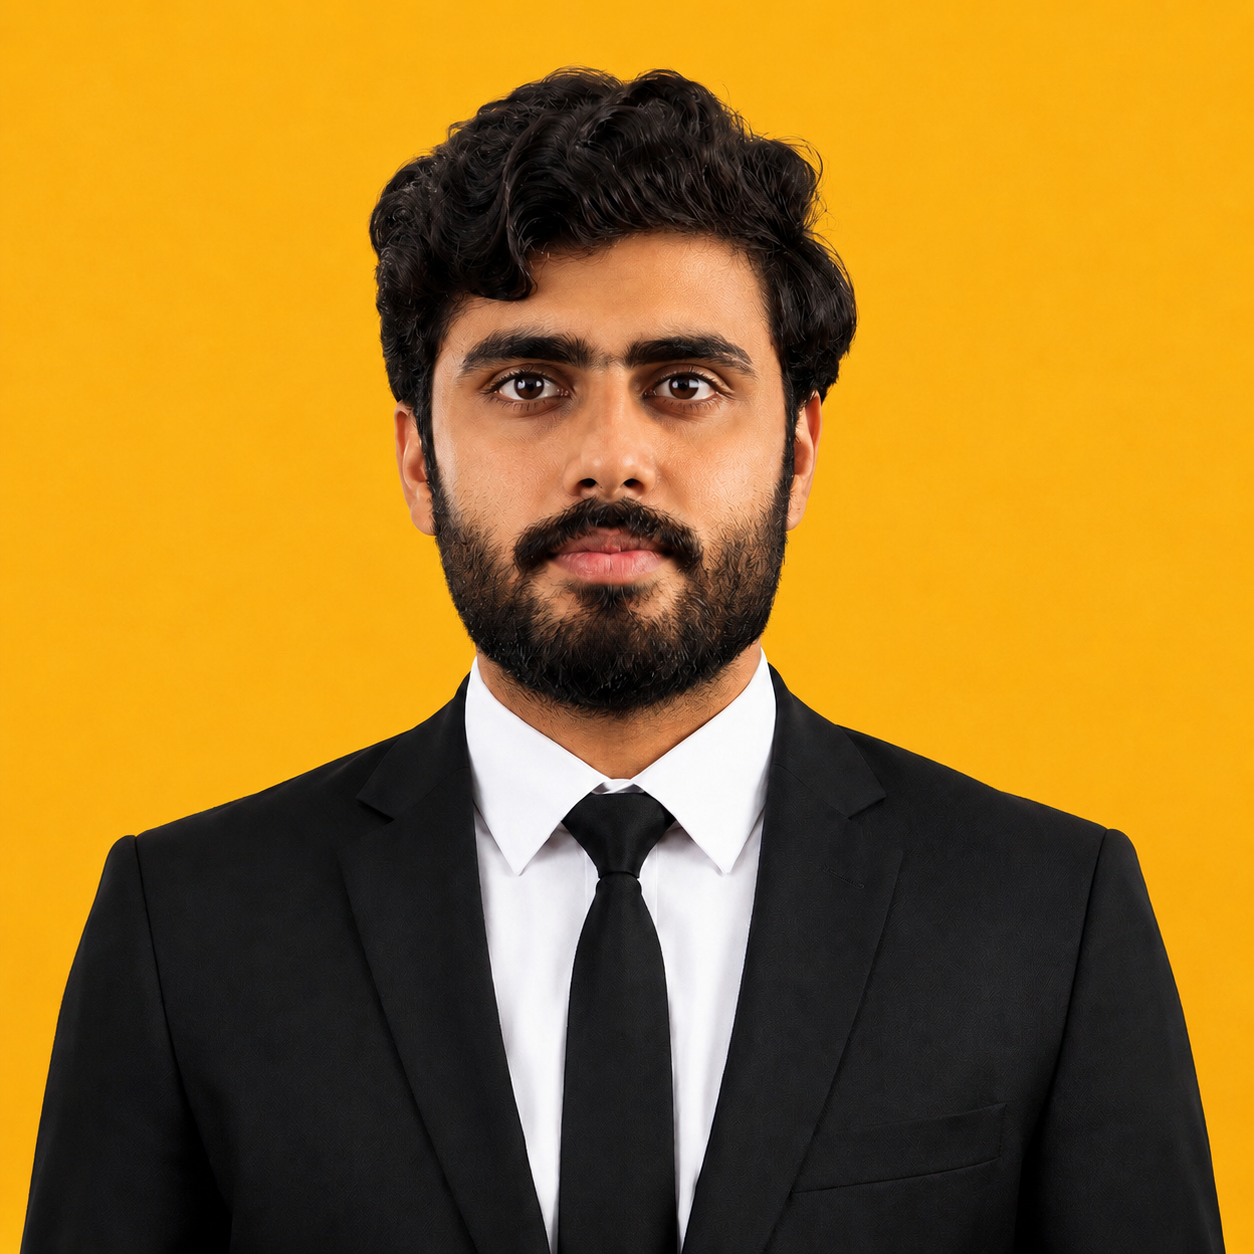
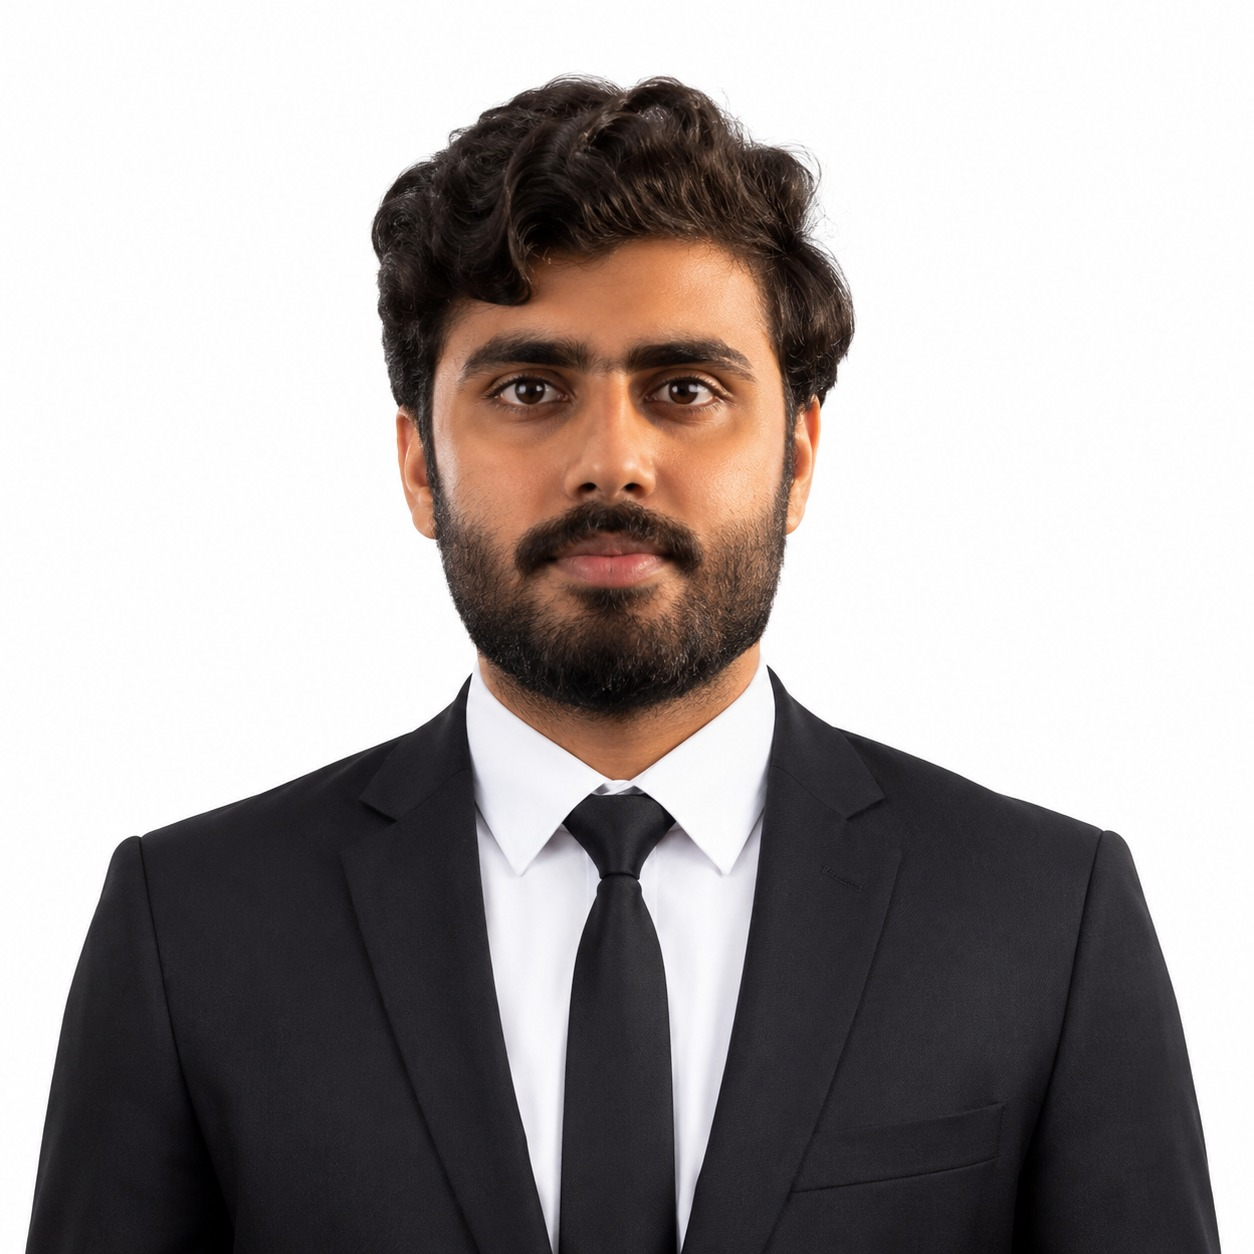
feat(content): update hero roles, portfolio data, bio, and component layout spacing

diff --git a/components/Testimonials.tsx b/components/Testimonials.tsx
@@ -18,95 +18,91 @@ export default function Testimonials() {
   const current = testimonials[currentIndex];
 
   return (
-    <section id="testimonials" className="relative py-24 px-6">
+    <section id="testimonials" className="relative py-12 sm:py-16 px-6">
       <div className="mx-auto max-w-4xl">
         {/* Section Header */}
         <motion.div
-          className="mb-16 text-center"
-          initial={{ opacity: 0, y: 30 }}
+          className="mb-8 text-center"
+          initial={{ opacity: 0, y: 20 }}
           whileInView={{ opacity: 1, y: 0 }}
-          viewport={{ once: true, margin: "-100px" }}
-          transition={{ duration: 0.6 }}
+          viewport={{ once: true, margin: "-80px" }}
+          transition={{ duration: 0.5 }}
         >
-          <span className="pill pill-accent mb-4 inline-block">Testimonials</span>
+          <span className="pill pill-accent mb-3 inline-block">Testimonials</span>
           <h2 className="text-3xl font-bold sm:text-4xl">
-            What People{" "}
-            <span className="gradient-text">Say</span>
+            What People <span className="gradient-text">Say</span>
           </h2>
         </motion.div>
 
         {/* Testimonial Carousel */}
         <motion.div
-          className="glass-card relative overflow-hidden rounded-3xl p-8 sm:p-12"
-          initial={{ opacity: 0, y: 30 }}
+          className="glass-card relative overflow-hidden rounded-2xl p-6 sm:p-8"
+          initial={{ opacity: 0, y: 20 }}
           whileInView={{ opacity: 1, y: 0 }}
-          viewport={{ once: true, margin: "-100px" }}
-          transition={{ duration: 0.6, delay: 0.1 }}
+          viewport={{ once: true, margin: "-80px" }}
+          transition={{ duration: 0.5, delay: 0.1 }}
         >
           {/* Quote Icon */}
-          <div className="absolute top-6 left-6 flex h-12 w-12 items-center justify-center rounded-xl bg-[var(--color-accent-glow)]">
-            <Quote className="h-6 w-6 text-[var(--color-accent)]" />
+          <div className="absolute top-5 left-5 flex h-10 w-10 items-center justify-center rounded-xl bg-[var(--color-accent-glow)]">
+            <Quote className="h-5 w-5 text-[var(--color-accent)]" />
           </div>
 
           {/* Quote Content */}
-          <div className="min-h-[280px] sm:min-h-[220px] pt-8">
+          <div className="min-h-[160px] sm:min-h-[140px] pt-6 sm:pt-4 sm:pl-10">
             <AnimatePresence mode="wait">
               <motion.div
                 key={current.id}
                 initial={{ opacity: 0, x: 20 }}
                 animate={{ opacity: 1, x: 0 }}
                 exit={{ opacity: 0, x: -20 }}
-                transition={{ duration: 0.4 }}
+                transition={{ duration: 0.3 }}
               >
-                <blockquote className="mb-8 text-lg leading-relaxed text-[var(--color-text-secondary)] italic sm:text-xl">
+                <blockquote className="mb-5 text-base leading-relaxed text-[var(--color-text-secondary)] italic sm:text-lg">
                   &ldquo;{current.quote}&rdquo;
                 </blockquote>
 
-                <div className="flex items-center gap-4">
-                  {/* Avatar placeholder */}
-                  <div className="flex h-12 w-12 items-center justify-center rounded-full bg-gradient-to-br from-[var(--color-accent)] to-[var(--color-accent-secondary)] text-lg font-bold text-white">
-                    {current.author
-                      .split(" ")
-                      .map((w) => w[0])
-                      .join("")
-                      .slice(0, 2)}
+                <div className="flex flex-wrap items-center justify-between gap-3 pt-3 border-t border-[var(--color-border)]">
+                  <div className="flex items-center gap-3">
+                    {/* Avatar */}
+                    <div className="flex h-10 w-10 items-center justify-center rounded-full bg-gradient-to-br from-[var(--color-accent)] to-[var(--color-accent-secondary)] text-sm font-bold text-white">
+                      {current.author
+                        .split(" ")
+                        .map((w) => w[0])
+                        .join("")
+                        .slice(0, 2)}
+                    </div>
+
+                    <div>
+                      <div className="font-semibold text-sm text-[var(--color-text-primary)]">
+                        {current.author}
+                      </div>
+                      <div className="text-xs text-[var(--color-text-muted)]">
+                        {current.role}
+                      </div>
+                    </div>
                   </div>
 
-                  <div>
-                    <div className="font-semibold text-[var(--color-text-primary)]">
-                      {current.author}
-                    </div>
-                    <div className="text-sm text-[var(--color-text-muted)]">
-                      {current.role}
-                    </div>
-                    <div className="flex items-center gap-1.5 text-xs text-[var(--color-accent-hover)]">
-                      <Building2 className="h-3 w-3" />
-                      {current.organization}
-                    </div>
+                  <div className="flex items-center gap-2">
+                    <span className="pill pill-emerald text-[11px]">
+                      {current.context}
+                    </span>
                   </div>
-                </div>
-
-                {/* Context Badge */}
-                <div className="mt-4">
-                  <span className="pill pill-emerald text-xs">
-                    {current.context}
-                  </span>
                 </div>
               </motion.div>
             </AnimatePresence>
           </div>
 
           {/* Navigation */}
-          <div className="mt-8 flex items-center justify-between">
-            <div className="flex items-center gap-2">
+          <div className="mt-6 flex items-center justify-between pt-2">
+            <div className="flex items-center gap-1.5">
               {testimonials.map((_, idx) => (
                 <button
                   key={idx}
                   onClick={() => setCurrentIndex(idx)}
-                  className={`h-2 rounded-full transition-all ${
+                  className={`h-1.5 rounded-full transition-all ${
                     idx === currentIndex
-                      ? "w-8 bg-[var(--color-accent)]"
-                      : "w-2 bg-[var(--color-elevated)] hover:bg-[var(--color-text-muted)]"
+                      ? "w-6 bg-[var(--color-accent)]"
+                      : "w-1.5 bg-[var(--color-elevated)] hover:bg-[var(--color-text-muted)]"
                   }`}
                   aria-label={`Go to testimonial ${idx + 1}`}
                 />
@@ -117,18 +113,18 @@ export default function Testimonials() {
               <button
                 id="testimonial-prev"
                 onClick={prev}
-                className="flex h-10 w-10 items-center justify-center rounded-lg border border-[var(--color-border)] text-[var(--color-text-secondary)] transition-all hover:border-[var(--color-border-hover)] hover:text-[var(--color-text-primary)]"
+                className="flex h-8 w-8 items-center justify-center rounded-lg border border-[var(--color-border)] text-[var(--color-text-secondary)] transition-all hover:border-[var(--color-border-hover)] hover:text-[var(--color-text-primary)]"
                 aria-label="Previous testimonial"
               >
-                <ChevronLeft className="h-5 w-5" />
+                <ChevronLeft className="h-4 w-4" />
               </button>
               <button
                 id="testimonial-next"
                 onClick={next}
-                className="flex h-10 w-10 items-center justify-center rounded-lg border border-[var(--color-border)] text-[var(--color-text-secondary)] transition-all hover:border-[var(--color-border-hover)] hover:text-[var(--color-text-primary)]"
+                className="flex h-8 w-8 items-center justify-center rounded-lg border border-[var(--color-border)] text-[var(--color-text-secondary)] transition-all hover:border-[var(--color-border-hover)] hover:text-[var(--color-text-primary)]"
                 aria-label="Next testimonial"
               >
-                <ChevronRight className="h-5 w-5" />
+                <ChevronRight className="h-4 w-4" />
               </button>
             </div>
           </div>

diff --git a/data/portfolioData.ts b/data/portfolioData.ts
@@ -52,23 +52,57 @@ export interface SocialLink {
   icon: string;
 }
 
+export interface EducationItem {
+  degree: string;
+  institution: string;
+  period: string;
+  cgpa?: string;
+  marks?: string;
+  grade?: string;
+}
+
 // ─── Profile Data ────────────────────────────────────────────────────────────
 
 export const profile = {
   name: "Saad Naseer",
-  title: "Full Stack Developer & Applied AI Integrator",
+  title: "Full Stack Developer",
   location: "Lahore, Pakistan",
   email: "saadnaseer146@gmail.com",
   phone: "+92 304 5297606",
-  bio: "I build robust, full-stack applications that bridge modern web technologies with applied AI — from enterprise financial platforms to fine-tuned LLM vulnerability scanners. Currently pursuing my BS in Computer Science at UCP with a 3.46 CGPA, while shipping production systems for real clients.",
+  whatsapp: "+92 304 5297606",
+  whatsappUrl: "https://wa.me/923045297606",
+  bio: "I don’t just write code, I ship intelligent systems that solve real business problems. Full-stack software developer specializing in scalable web architectures and applied AI from secure platforms to automated systems. Built on solid computer science fundamentals, proven in production.",
   resumeUrl: "/Saad_Naseer_CV_Latest.pdf",
-  avatarUrl: "/Saad.PNG",
+  avatarUrl: "/Saad.png",
   education: {
     degree: "BS Computer Science",
     institution: "University of Central Punjab (UCP)",
     period: "2022 – 2026",
     cgpa: "3.46 / 4.0",
   },
+  educations: [
+    {
+      degree: "BS Computer Science",
+      institution: "University of Central Punjab (UCP)",
+      period: "2022 – 2026",
+      cgpa: "3.46 / 4.0",
+      grade: "A+",
+    },
+    {
+      degree: "HSSC - ICS (Phy)",
+      institution: "Punjab College of Science, Gujranwala",
+      period: "2020 – 2022",
+      marks: "931 / 1100",
+      grade: "A",
+    },
+    {
+      degree: "SSC - Science (Computer)",
+      institution: "Science Locus High School (For Boys), Gujranwala",
+      period: "2018 – 2020",
+      marks: "1049 / 1100",
+      grade: "A+",
+    },
+  ],
 };
 
 // ─── Navigation ──────────────────────────────────────────────────────────────
@@ -160,7 +194,7 @@ export const projects: Project[] = [
     title: "CDC Lab Accounts System",
     tagline: "Full-stack financial & asset management platform",
     description:
-      "A comprehensive financial and asset tracking platform for CDC Diagnostic Laboratories. Features role-based access control, multi-branch accounting, automated reporting, and real-time asset lifecycle management — eliminating manual bottlenecks across all branches.",
+      "A comprehensive financial and asset tracking platform for CDC Diagnostic Laboratories. Features role-based access control, multi-branch accounting, automated reporting, and real-time asset lifecycle management. Eliminating manual bottlenecks.",
     image: "/projects/cdc-lab.jpg",
     techStack: [
       "Next.js",
@@ -173,7 +207,7 @@ export const projects: Project[] = [
       "Playwright",
     ],
     liveDemoUrl: null,
-    githubUrl: null,
+    githubUrl: "https://github.com/itzzsaadi/cdc-labs-account",
     architecture:
       "App Router-based Next.js frontend with server actions for mutations. Prisma ORM over PostgreSQL for type-safe database access. Better Auth handles session-based authentication with role-based middleware guards. Zod schemas validate all inputs at the boundary layer. Vitest for unit/integration tests, Playwright for E2E flows across multi-branch scenarios.",
     highlights: [
@@ -200,7 +234,7 @@ export const projects: Project[] = [
       "Python",
     ],
     liveDemoUrl: null,
-    githubUrl: null,
+    githubUrl: "https://github.com/itzzsaadi/",
     architecture:
       "React SPA frontend communicates with a FastAPI backend. Source code is parsed into Abstract Syntax Trees using Tree-sitter, then fed into a Qwen2.5-Coder model fine-tuned with QLoRA on a 300K+ vulnerability dataset. PostgreSQL stores scan results and vulnerability patterns. The pipeline supports multi-language parsing and severity-ranked output.",
     highlights: [
@@ -220,7 +254,7 @@ export const projects: Project[] = [
     image: "/projects/ecommerce.jpg",
     techStack: ["ASP.NET MVC", "C#", "SQL Server", "Bootstrap", "JavaScript"],
     liveDemoUrl: null,
-    githubUrl: null,
+    githubUrl: "https://github.com/itzzsaadi/ECommerceProject",
     architecture:
       "Classic MVC architecture with ASP.NET. Controller layer handles routing and business logic, Entity Framework maps to SQL Server database. Bootstrap-based responsive frontend with JavaScript for dynamic interactions. Supports product CRUD, cart management, and order lifecycle tracking.",
     highlights: [
@@ -239,7 +273,7 @@ export const projects: Project[] = [
     image: "/projects/ai-text.jpg",
     techStack: ["Python", "Tesseract OCR", "LinearSVC", "OpenCV", "scikit-learn"],
     liveDemoUrl: null,
-    githubUrl: null,
+    githubUrl: "https://github.com/itzzsaadi/AI-Image-to-Text",
     architecture:
       "Image input is preprocessed with OpenCV (noise reduction, binarization, deskewing) before passing to Tesseract OCR for text extraction. Extracted text is vectorized using TF-IDF and classified by a LinearSVC model trained on labeled toxicity datasets. The pipeline outputs confidence scores and category labels.",
     highlights: [
@@ -258,7 +292,7 @@ export const projects: Project[] = [
     image: "/projects/library.jpg",
     techStack: ["SQL", "Database Design", "Stored Procedures", "ER Modeling"],
     liveDemoUrl: null,
-    githubUrl: null,
+    githubUrl: "https://github.com/itzzsaadi/Advanced-Library-Management-System",
     architecture:
       "Normalized relational schema with proper foreign key constraints and indexes. Features complex JOIN queries, subqueries, CTEs, and stored procedures for book availability tracking, overdue calculations, and member history. ER modeling covers Books, Authors, Members, Loans, Reservations, and Fines.",
     highlights: [
@@ -343,5 +377,5 @@ export const testimonials: Testimonial[] = [
 
 // ─── Formspree ───────────────────────────────────────────────────────────────
 
-// Replace with your actual Formspree endpoint after creating a form at https://formspree.io
-export const FORMSPREE_ENDPOINT = "https://formspree.io/f/xwlpzwap";
+const formspreeId = process.env.FORMSPREE_FORM_ID;
+export const FORMSPREE_ENDPOINT = `https://formspree.io/f/${formspreeId}`;

diff --git a/components/GitHubActivity.tsx b/components/GitHubActivity.tsx
@@ -99,22 +99,22 @@ export default function GitHubActivity() {
   const displayUser = user || null;
 
   return (
-    <section id="github" className="relative py-24 px-6">
+    <section id="github" className="relative py-12 sm:py-16 px-6">
       <div className="mx-auto max-w-7xl">
         {/* Section Header */}
         <motion.div
-          className="mb-16 text-center"
-          initial={{ opacity: 0, y: 30 }}
+          className="mb-8 text-center"
+          initial={{ opacity: 0, y: 20 }}
           whileInView={{ opacity: 1, y: 0 }}
-          viewport={{ once: true, margin: "-100px" }}
-          transition={{ duration: 0.6 }}
+          viewport={{ once: true, margin: "-80px" }}
+          transition={{ duration: 0.5 }}
         >
-          <span className="pill pill-accent mb-4 inline-block">Open Source</span>
+          <span className="pill pill-accent mb-3 inline-block">Open Source</span>
           <h2 className="text-3xl font-bold sm:text-4xl">
             GitHub{" "}
             <span className="gradient-text">Activity</span>
           </h2>
-          <p className="mt-4 text-[var(--color-text-muted)]">
+          <p className="mt-2 text-sm text-[var(--color-text-muted)]">
             Live statistics from{" "}
             <a
               href={`https://github.com/${GITHUB_USERNAME}`}
@@ -147,7 +147,7 @@ export default function GitHubActivity() {
 
             {/* Stats Cards */}
             <motion.div
-              className="mb-12 grid grid-cols-2 gap-4 sm:grid-cols-4"
+              className="mb-8 grid grid-cols-2 gap-4 sm:grid-cols-4"
               initial={{ opacity: 0, y: 20 }}
               whileInView={{ opacity: 1, y: 0 }}
               viewport={{ once: true }}

diff --git a/components/Hero.tsx b/components/Hero.tsx
@@ -8,9 +8,10 @@ import Image from "next/image";
 
 const roles = [
   "Full Stack Developer",
-  "Applied AI Integrator",
-  "Next.js Engineer",
-  "Python & ML Builder",
+  "Backend Developer",
+  ".NET Developer",
+  "AI Product Developer",
+  "AI / ML Engineer",
 ];
 
 export default function Hero() {
@@ -47,7 +48,7 @@ export default function Hero() {
   return (
     <section
       id="hero"
-      className="relative flex min-h-screen items-center justify-center overflow-hidden px-6"
+      className="relative flex min-h-[85vh] sm:min-h-[90vh] items-center justify-center overflow-hidden px-6 pt-20 pb-12 sm:pt-24 sm:pb-16"
     >
       <div className="mx-auto flex w-full max-w-7xl flex-col items-center gap-12 lg:flex-row lg:gap-16">
         {/* Left: Text Content */}
